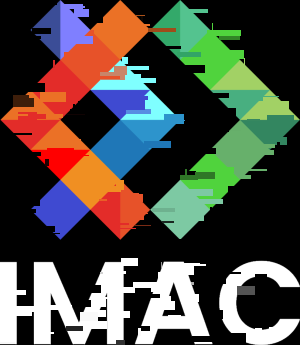
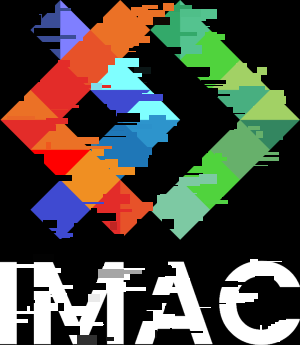
Jour 3
⭐⭐⭐ Rosace => fait
⭐⭐⭐Glitch => modifié
⭐⭐⭐Tri de pixels => fait
⭐⭐⭐(⭐) Fractale de Mandelbrot => fait
⭐⭐⭐(⭐) Dégradés dans l'espace de couleur Lab => fait
⭐⭐⭐(⭐) Tramage => fait

Et tous les exercices avant la rosace ont été fait (oublie de le mettre dans la description avant)

diff --git a/src/main.cpp b/src/main.cpp
@@ -2,6 +2,8 @@
 #include "random.hpp"
 #include <cmath>
 #include <string>
+#include <iostream>
+#include <algorithm> //std::sort
 
 void greenImage(sil::Image &image)
 {
@@ -292,6 +294,65 @@ void Animation()
     }
 }
 
+sil::Image Rosace()
+{
+    sil::Image image{500, 500};
+    // Epaisseur du trait
+    float const thickness = 2;
+    // Rayon du cercle
+    float const rayon = image.width() / 4;
+
+    float const pi = 3.141592653589793f;
+
+    for (int x{0}; x < image.width(); x++)
+    {
+        for (int y{0}; y < image.height(); y++)
+        {
+            // On centre le cercle
+            float xCoordinate = x - (image.width() / 2);
+            float yCoordinate = y - (image.height() / 2);
+
+            bool draw = false;
+
+            // Cercle central
+            float distanceCentre = std::sqrt(xCoordinate * xCoordinate + yCoordinate * yCoordinate);
+
+            // Condition qui permet de dessiner le cercle en fonction de l'épaisseur
+            if (std::abs(distanceCentre - rayon) < thickness)
+            {
+                draw = true;
+            }
+
+            // Cercle répété autour
+            for (int i{0}; i < 6; i++)
+            {
+                // On incrémente pour faire le tour complet d'un cercle => 2pi
+                float angle = i * pi / 3;
+                float xRayon = rayon * cos(angle);
+                float yRayon = rayon * sin(angle);
+                // Distance entre le point du milieu et celui présent sur le cercle
+                float xDistance = xCoordinate - xRayon;
+                float yDistance = yCoordinate - yRayon;
+
+                // Cercle qui va être répété, même formule que celui du centre
+                float distance = std::sqrt(xDistance * xDistance + yDistance * yDistance);
+                // Condition qui permet de dessiner le cercle en fonction de l'épaisseur
+                if (std::abs(distance - rayon) < thickness)
+                {
+                    draw = true;
+                }
+                if (draw)
+                {
+                    image.pixel(x, y).r = 1.f;
+                    image.pixel(x, y).g = 1.f;
+                    image.pixel(x, y).b = 1.f;
+                }
+            }
+        }
+    }
+    return image;
+}
+
 sil::Image Mosaique(sil::Image &image)
 {
     int const multiply = 5;
@@ -354,7 +415,7 @@ sil::Image MosaiqueMirroir(sil::Image &image)
 
 void Glitch(sil::Image &image)
 {
-    int const glitchFactor = 400;
+    int const glitchFactor = 500;
     int const minWidth = 0;
     int const minHeight = 0;
     int const maxWidth = (image.width() - 1) / 10;
@@ -378,6 +439,14 @@ void Glitch(sil::Image &image)
             for (int y = 0; y < glitchHeight; y++)
             {
                 image.pixel(randomWidth + x, randomHeight + y) = image.pixel(randomWidth, randomHeight);
+                int glitchWidth = random_int(minWidth, maxWidth);
+                int glitchHeight = random_int(minHeight, maxHeight);
+
+                if (
+                    randomWidth + glitchWidth >= image.width() || randomHeight + glitchHeight >= image.height())
+                {
+                    continue;
+                }
             }
         }
     }
@@ -385,13 +454,234 @@ void Glitch(sil::Image &image)
 
 void PixelSorting(sil::Image &image)
 {
+    int const pixelSortingFactor = 1000;
+    int width = image.width();
+    int height = image.height();
+    std::vector<glm::vec3> &pixels = image.pixels();
+
+    for (int k = 0; k < pixelSortingFactor; ++k)
+    {
+
+        int maxRectWidth = width / 5;
+        int maxRectHeight = height / 100;
+        int rectWidth = random_int(1, maxRectWidth);
+        int rectHeight = random_int(1, maxRectHeight);
+        int randomX = random_int(0, width - 1);
+        int randomY = random_int(0, height - 1);
+
+        if (randomX + rectWidth >= width)
+            rectWidth = width - randomX;
+        if (randomY + rectHeight >= height)
+            rectHeight = height - randomY;
+
+        for (int y = 0; y < rectHeight; ++y)
+        {
+            randomX = random_int(0, width - 1);
+            randomY = random_int(0, height - 1);
+            auto row_begin = pixels.begin() + (randomY + y) * width + randomX;
+            auto row_end = row_begin + rectWidth;
+
+            std::sort(row_begin, row_end,
+                      [](const glm::vec3 &a, const glm::vec3 &b)
+                      {
+                          // Tri sur la luminance
+                          float lumA = 0.2126 * a.r + 0.7152 * a.g + 0.0722 * a.b;
+                          float lumB = 0.2126 * b.r + 0.7152 * b.g + 0.0722 * b.b;
+                          return lumA < lumB;
+                      });
+        }
+    }
+}
+
+sil::Image MandelBrot()
+{
+    // Données trouvées sur internet
+    double const x1 = -2.1;
+    double const x2 = 0.6;
+    double const y1 = -1.2;
+    double const y2 = 1.2;
+    // Permet de donner l'effet de zoom sur notre fractale
+    int const zoom = 100;
+    // Affine la fractale
+    int const iteration = 100;
+    // On adapte la taille en fonction des données d'entrées
+    int width = static_cast<int>((x2 - x1) * zoom);
+    int height = static_cast<int>((y2 - y1) * zoom);
+
+    sil::Image image{width, height};
 
     for (int x{0}; x < image.width(); x++)
     {
         for (int y{0}; y < image.height(); y++)
         {
-            image.pixel(x, y).r = 0.f;
-            image.pixel(x, y).b = 0.f;
+
+            ///** r pour réel et i pour imaginaire **///
+
+            // Conversion des pixels en coordonnées complexes
+            //  c_r = partie réelle, c_i = partie imaginaire
+
+            float c_r = x / static_cast<float>(zoom) + x1;
+            float c_i = y / static_cast<float>(zoom) + y1;
+            // Initialisation de z partie réelle et partie imaginaire
+            float z_r = 0;
+            float z_i = 0;
+            int i = 0;
+
+            // Toutes les formules ci-dessous, ont été trouvé sur internet (développement de la formule de base z = z^2 + c)
+            //  La formule de Mandelbrot : z = z^2 + c
+            while (z_r * z_r + z_i * z_i < 4 && i < iteration)
+            {
+                // stockage temporaire de la partie réelle
+                float tmp = z_r;
+                // partie réel et imaginaire
+                z_r = z_r * z_r - z_i * z_i + c_r; // zr^2 - zi^2 + cr
+                z_i = 2 * tmp * z_i + c_i;         // 2*zr*zi + ci
+                i++;
+            }
+
+            // Si le pixel reste dans le fractal de Mandelbrot, je le dessine en blanc
+            if (i == iteration)
+            {
+                image.pixel(x, y).r = 1.0;
+                image.pixel(x, y).g = 1.0;
+                image.pixel(x, y).b = 1.0;
+            }
+        }
+    }
+    return image;
+}
+// Ces deux fonctions sont utilisé pour l'exercice du Oklab
+float sRGB_to_linear(float color)
+{
+    if (color <= 0.04045f)
+        return color / 12.92f;
+    else
+        return std::pow((color + 0.055f) / 1.055f, 2.4f);
+}
+float linear_to_sRGB(float color)
+{
+    if (color <= 0.0031308f)
+        return 12.92f * color;
+    else
+        return 1.055f * std::pow(color, 1.0f / 2.4f) - 0.055f;
+}
+
+sil::Image GradientLab()
+{
+    sil::Image image{300, 200};
+    for (int x{0}; x < image.width(); x++)
+    {
+        for (int y{0}; y < image.height(); y++)
+        {
+
+            // Couleurs de base
+            float R_sRGB = 1 - static_cast<float>(x) / image.width();
+            float G_sRGB = static_cast<float>(x) / image.width();
+            float B_sRGB = static_cast<float>(x) / image.width() * 2;
+
+            // Conversion sRGB à linear sRGB
+            float R_lin = sRGB_to_linear(R_sRGB);
+            float G_lin = sRGB_to_linear(G_sRGB);
+            float B_lin = sRGB_to_linear(B_sRGB);
+
+            // Conversion linear sRGB Oklab
+            float l = 0.4122214708f * R_lin + 0.5363325363f * G_lin + 0.0514459929f * B_lin;
+            float m = 0.2119034982f * R_lin + 0.6806995451f * G_lin + 0.1073969566f * B_lin;
+            float s = 0.0883024619f * R_lin + 0.2817188376f * G_lin + 0.6299787005f * B_lin;
+
+            float l_ = std::cbrt(l);
+            float m_ = std::cbrt(m);
+            float s_ = std::cbrt(s);
+
+            float L = 0.2104542553f * l_ + 0.7936177850f * m_ - 0.0040720468f * s_;
+            float a = 1.9779984951f * l_ - 2.4285922050f * m_ + 0.4505937099f * s_;
+            float b = 0.0259040371f * l_ + 0.7827717662f * m_ - 0.8086757660f * s_;
+
+            // Conversion Oklam linear RGB
+            float l2 = L + 0.3963377774f * a + 0.2158037573f * b;
+            float m2 = L - 0.1055613458f * a - 0.0638541728f * b;
+            float s2 = L - 0.0894841775f * a - 1.2914855480f * b;
+
+            l2 = std::pow(l2, 3.);
+            m2 = std::pow(m2, 3.);
+            s2 = std::pow(s2, 3.);
+
+            R_lin = 4.0767416621f * l2 - 3.3077115913f * m2 + 0.2309699292f * s2;
+            G_lin = -1.2684380046f * l2 + 2.6097574011f * m2 - 0.3413193965f * s2;
+            B_lin = -0.0041960863f * l2 - 0.7034186147f * m2 + 1.7076147010f * s2;
+
+            // Conversion linear rgb to SRGB
+
+            R_sRGB = std::max(0.f, std::min(1.f, linear_to_sRGB(R_lin)));
+            G_sRGB = std::max(0.f, std::min(1.f, linear_to_sRGB(G_lin)));
+            B_sRGB = std::max(0.f, std::min(1.f, linear_to_sRGB(B_lin)));
+            // Ne pas sortir du scope du sRGB (entre 0 et 1 en float)
+
+            image.pixel(x, y).r = R_sRGB;
+            image.pixel(x, y).g = G_sRGB;
+            image.pixel(x, y).b = B_sRGB;
+        }
+    }
+    return image;
+}
+
+void TramageV1(sil::Image &image)
+{
+    for (int x{0}; x < image.width(); x++)
+    {
+        for (int y{0}; y < image.height(); y++)
+        {
+            float red = image.pixel(x, y).r;
+            float blue = image.pixel(x, y).b;
+            float green = image.pixel(x, y).g;
+
+            float luminance = 0.2126 * red + 0.7152 * green + 0.0722 * blue;
+
+            if (static_cast<int>(luminance * 10) % 2 == 0)
+            {
+                luminance = 1.0;
+            }
+            else
+            {
+                luminance = 0.0;
+            }
+            image.pixel(x, y).r = luminance;
+            image.pixel(x, y).b = luminance;
+            image.pixel(x, y).g = luminance;
+        }
+    }
+}
+
+void TramageV2(sil::Image &image)
+{
+    const int bayer_n = 4;
+    float bayer_matrix_4x4[][bayer_n] = {
+        {-0.5, 0, -0.375, 0.125},
+        {0.25, -0.25, 0.375, -0.125},
+        {-0.3125, 0.1875, -0.4375, 0.0625},
+        {0.4375, -0.0625, 0.3125, -0.1875},
+    };
+    for (int x{0}; x < image.width(); x++)
+    {
+        for (int y{0}; y < image.height(); y++)
+        {
+            float red = image.pixel(x, y).r;
+            float blue = image.pixel(x, y).b;
+            float green = image.pixel(x, y).g;
+            float luminance = 0.2126 * red + 0.7152 * green + 0.0722 * blue;
+            
+            float bayer_value = bayer_matrix_4x4[x % bayer_n][y % bayer_n];
+            float output_color = luminance + bayer_value; //ajuste la luminance
+
+            output_color = std::max(0.f, std::min(1.f, output_color));
+            if (output_color < 0.5f)
+                output_color = 0.f; // noir
+            else
+                output_color = 1.f;
+
+            image.pixel(x, y).r = output_color;
+            image.pixel(x, y).g = output_color;
+            image.pixel(x, y).b = output_color;
         }
     }
 }
@@ -460,6 +750,10 @@ int main()
         image.save("output/Cercle.png");
     }
     {
+        sil::Image image = Rosace();
+        image.save("output/Rosace.png");
+    }
+    {
         Animation();
     }
     {
@@ -476,5 +770,28 @@ int main()
         sil::Image image{"images/logo.png"};
         Glitch(image);
         image.save("output/Glitch.png");
+    }
+    {
+        sil::Image image{"images/logo.png"};
+        PixelSorting(image);
+        image.save("output/PixelSorting.png");
+    }
+    {
+        sil::Image image = MandelBrot();
+        image.save("output/MandelBrot.png");
+    }
+    {
+        sil::Image image = GradientLab();
+        image.save("output/GradientLab.png");
+    }
+    {
+        sil::Image image{"images/photo_faible_contraste.jpg"};
+        TramageV1(image);
+        image.save("output/TramageV1.png");
+    }
+    {
+        sil::Image image{"images/photo_faible_contraste.jpg"};
+        TramageV2(image);
+        image.save("output/TramageV2.png");
     }
 }
